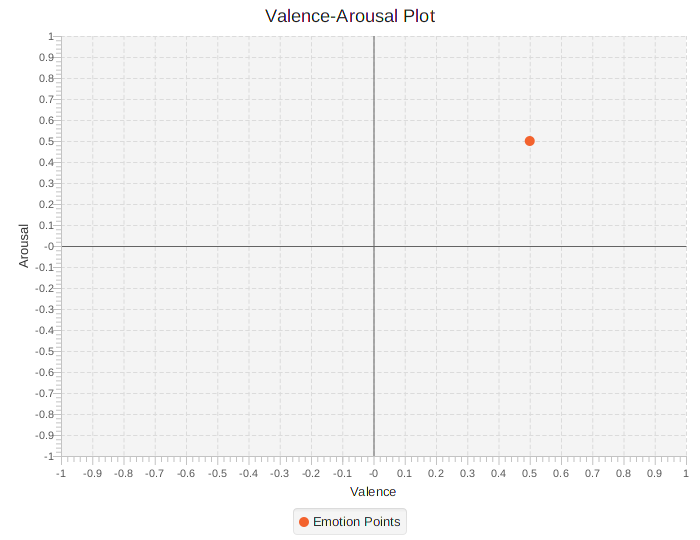
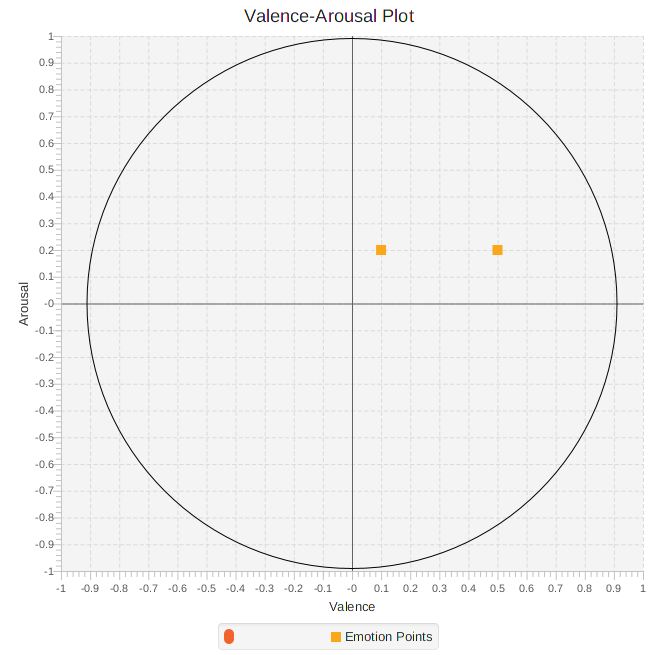
Fixed issue with circle not showing up on PNG and resized so it better fit the model

diff --git a/EmotionGUI/src/application/VisualiseScreenController.java b/EmotionGUI/src/application/VisualiseScreenController.java
@@ -3,6 +3,8 @@ package application;
 import java.io.File;
 import java.io.FileWriter;
 import java.io.IOException;
+import java.net.URL;
+import java.util.ResourceBundle;
 
 import javax.imageio.ImageIO;
 
@@ -28,11 +30,13 @@ import javafx.scene.control.Button;
 import javafx.scene.control.TextField;
 import javafx.scene.image.WritableImage;
 import javafx.scene.layout.BorderPane;
+import javafx.scene.paint.Color;
+import javafx.scene.shape.Circle;
 import javafx.scene.text.Text;
 import javafx.stage.FileChooser;
 import javafx.stage.Stage;
 
-public class VisualiseScreenController {
+public class VisualiseScreenController implements Initializable{
 
 	@FXML
 	Button selectFile;
@@ -66,6 +70,22 @@ public class VisualiseScreenController {
 	private Stage stage;
 	private Scene scene;
 	private Parent root;
+	
+	@SuppressWarnings("unchecked")
+	@Override
+	public void initialize(URL arg0, ResourceBundle arg1) {
+		
+		XYChart.Series<Number, Number> circleSeries = new XYChart.Series<Number, Number>();
+		Circle circle = new Circle(0,0,265);
+		circle.setFill(new Color(0,0,0,0));
+		circle.setStroke(Color.BLACK);
+		Data<Number, Number> data = new Data<Number, Number>(0,0);
+		data.setNode(circle);
+		circleSeries.getData().addAll(data);
+		ValenceArousalPlot.getData().addAll(circleSeries);
+		
+		
+	}
 
 	public void selectAFile(ActionEvent event) {
 
@@ -104,10 +124,10 @@ public class VisualiseScreenController {
 			double valence = Double.parseDouble(valenceCoordinate.getText());
 			double arousal = Double.parseDouble(arousalCoordinate.getText());
 			emotionCoordinates.getData().add(new Data<Number, Number>(valence, arousal));
-			if (ValenceArousalPlot.getData().isEmpty()) {
+			if(!ValenceArousalPlot.getData().contains(emotionCoordinates)) {
 				ValenceArousalPlot.getData().addAll(emotionCoordinates);
 			} else {
-				ValenceArousalPlot.getData().remove((int) (Math.random() * (ValenceArousalPlot.getData().size() - 1)));
+				ValenceArousalPlot.getData().remove(1);
 				ValenceArousalPlot.getData().addAll(emotionCoordinates);
 			}
 		}
@@ -148,4 +168,6 @@ public class VisualiseScreenController {
 		emotionCoordinates.getData().clear();
 		ValenceArousalPlot.getData().remove((int) (Math.random() * (ValenceArousalPlot.getData().size() - 1)));
 	}
+
+
 }
